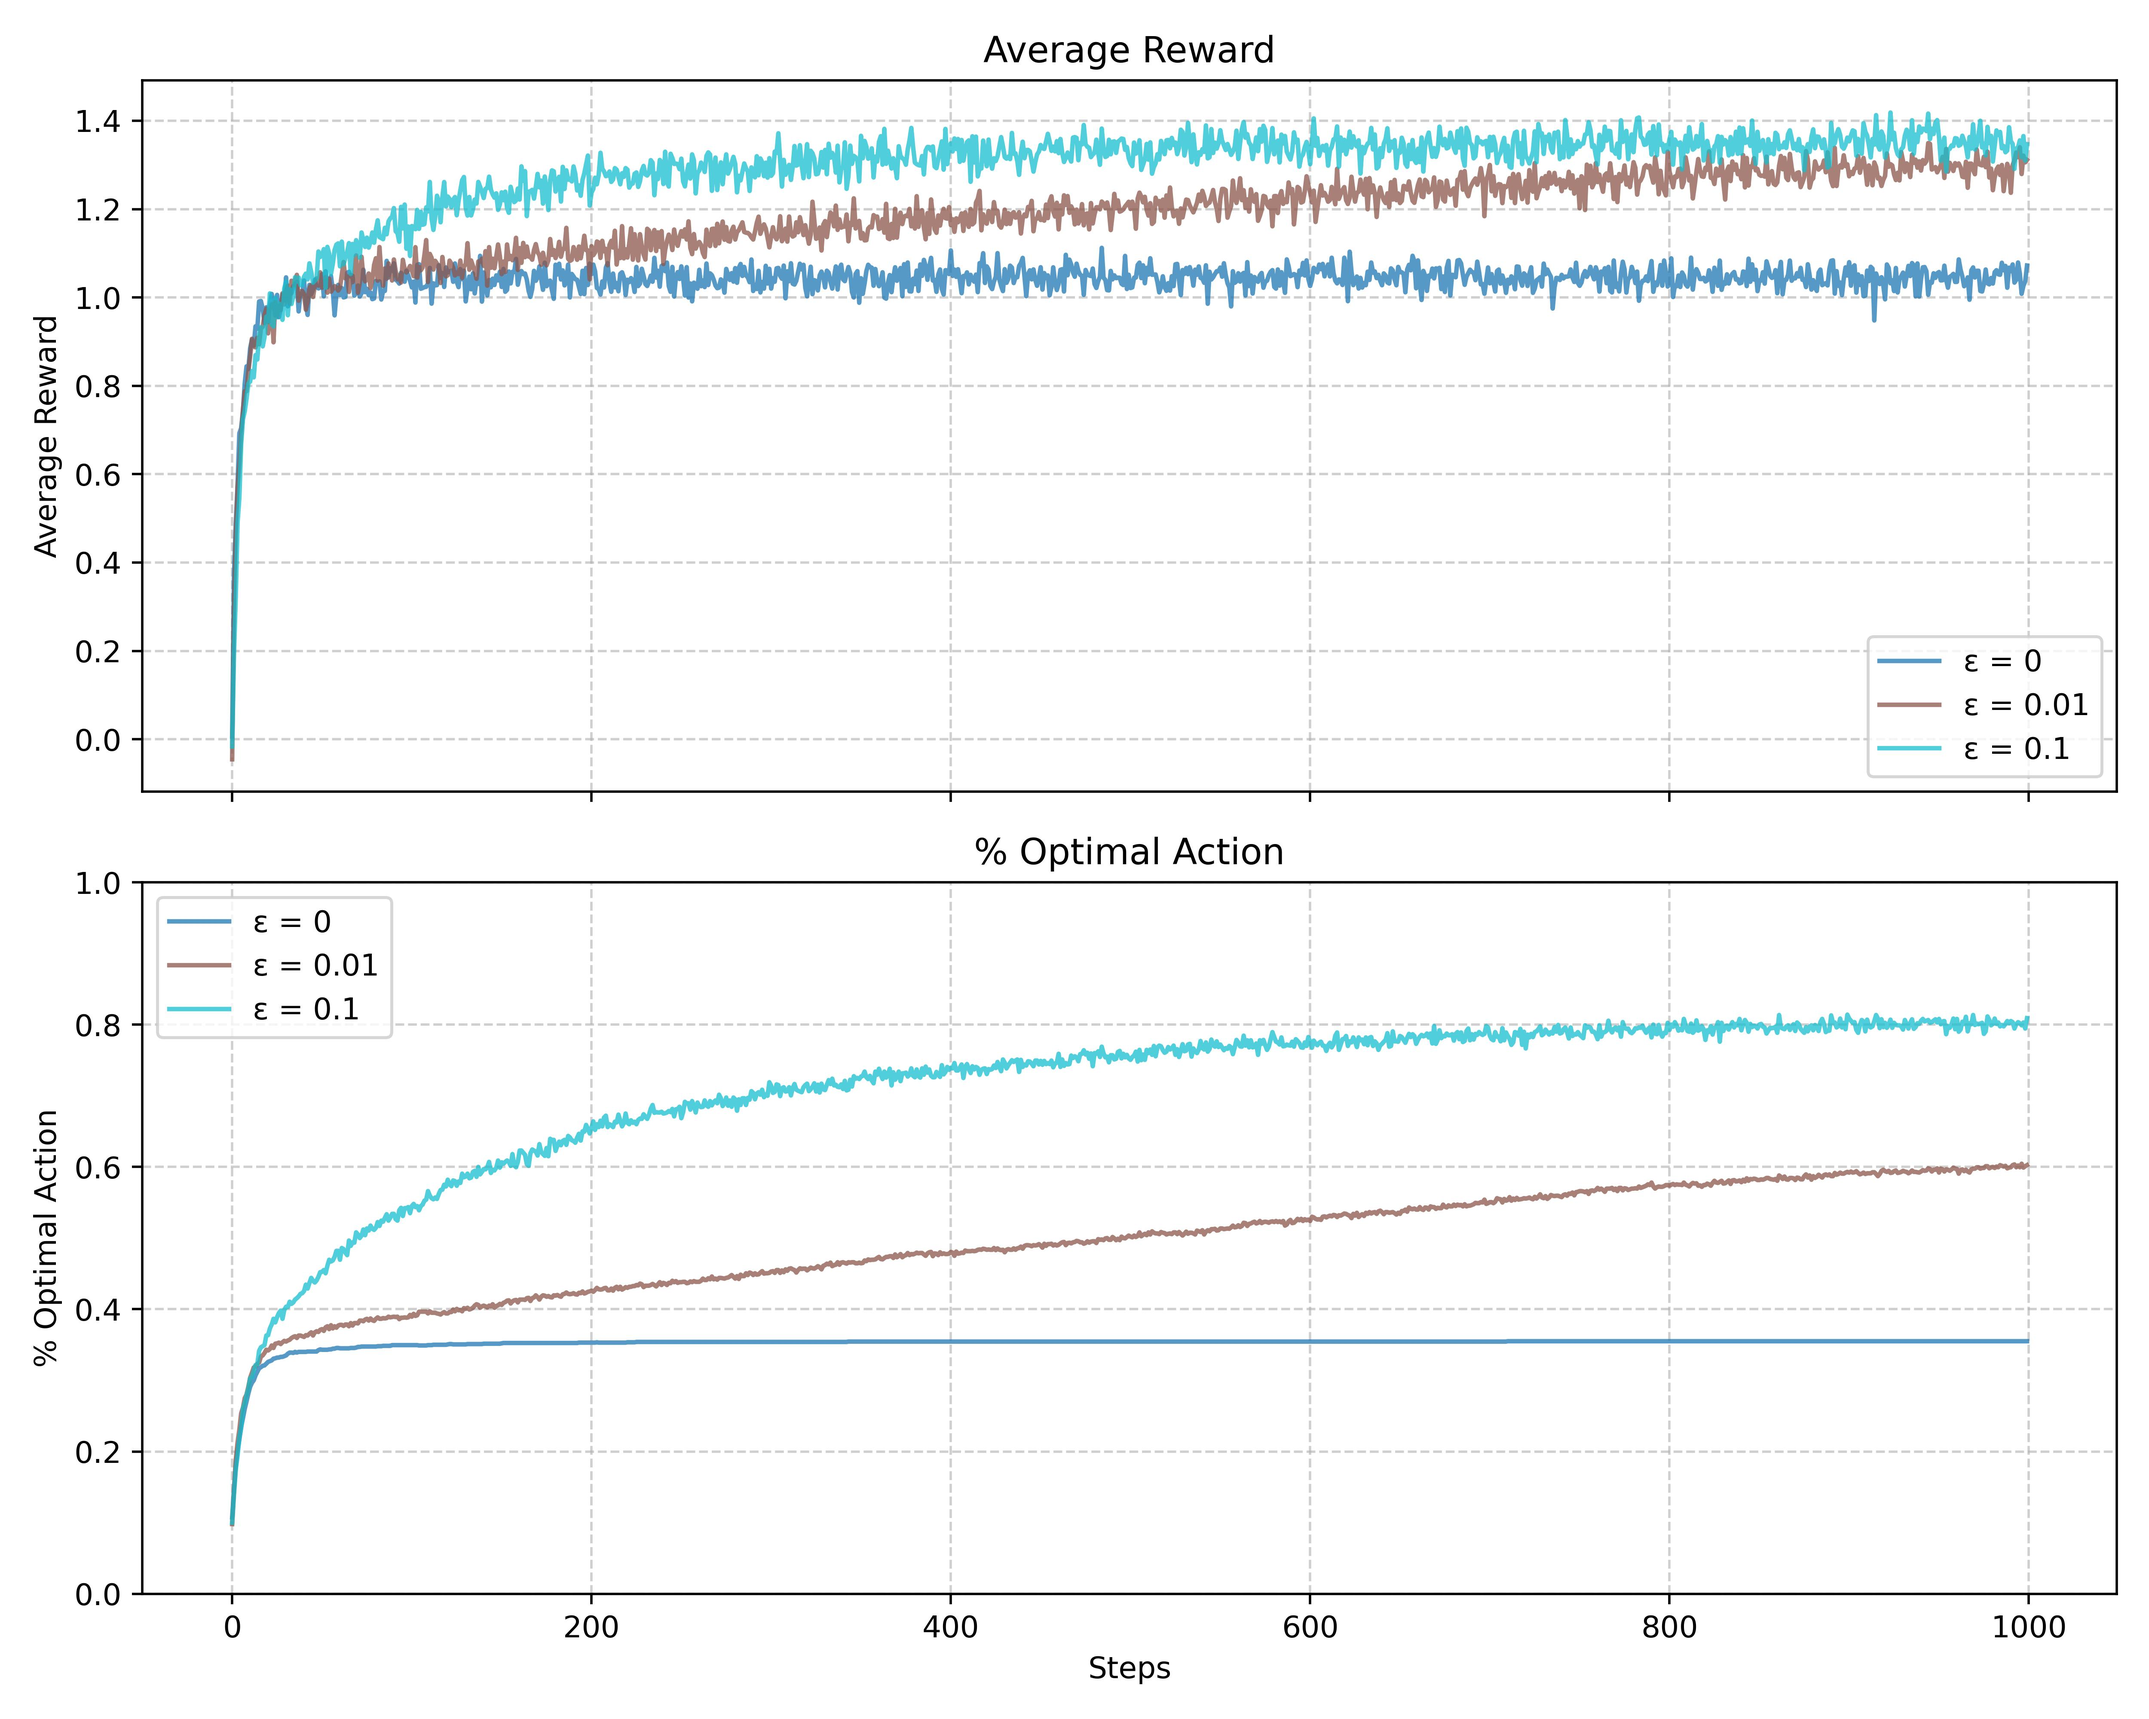
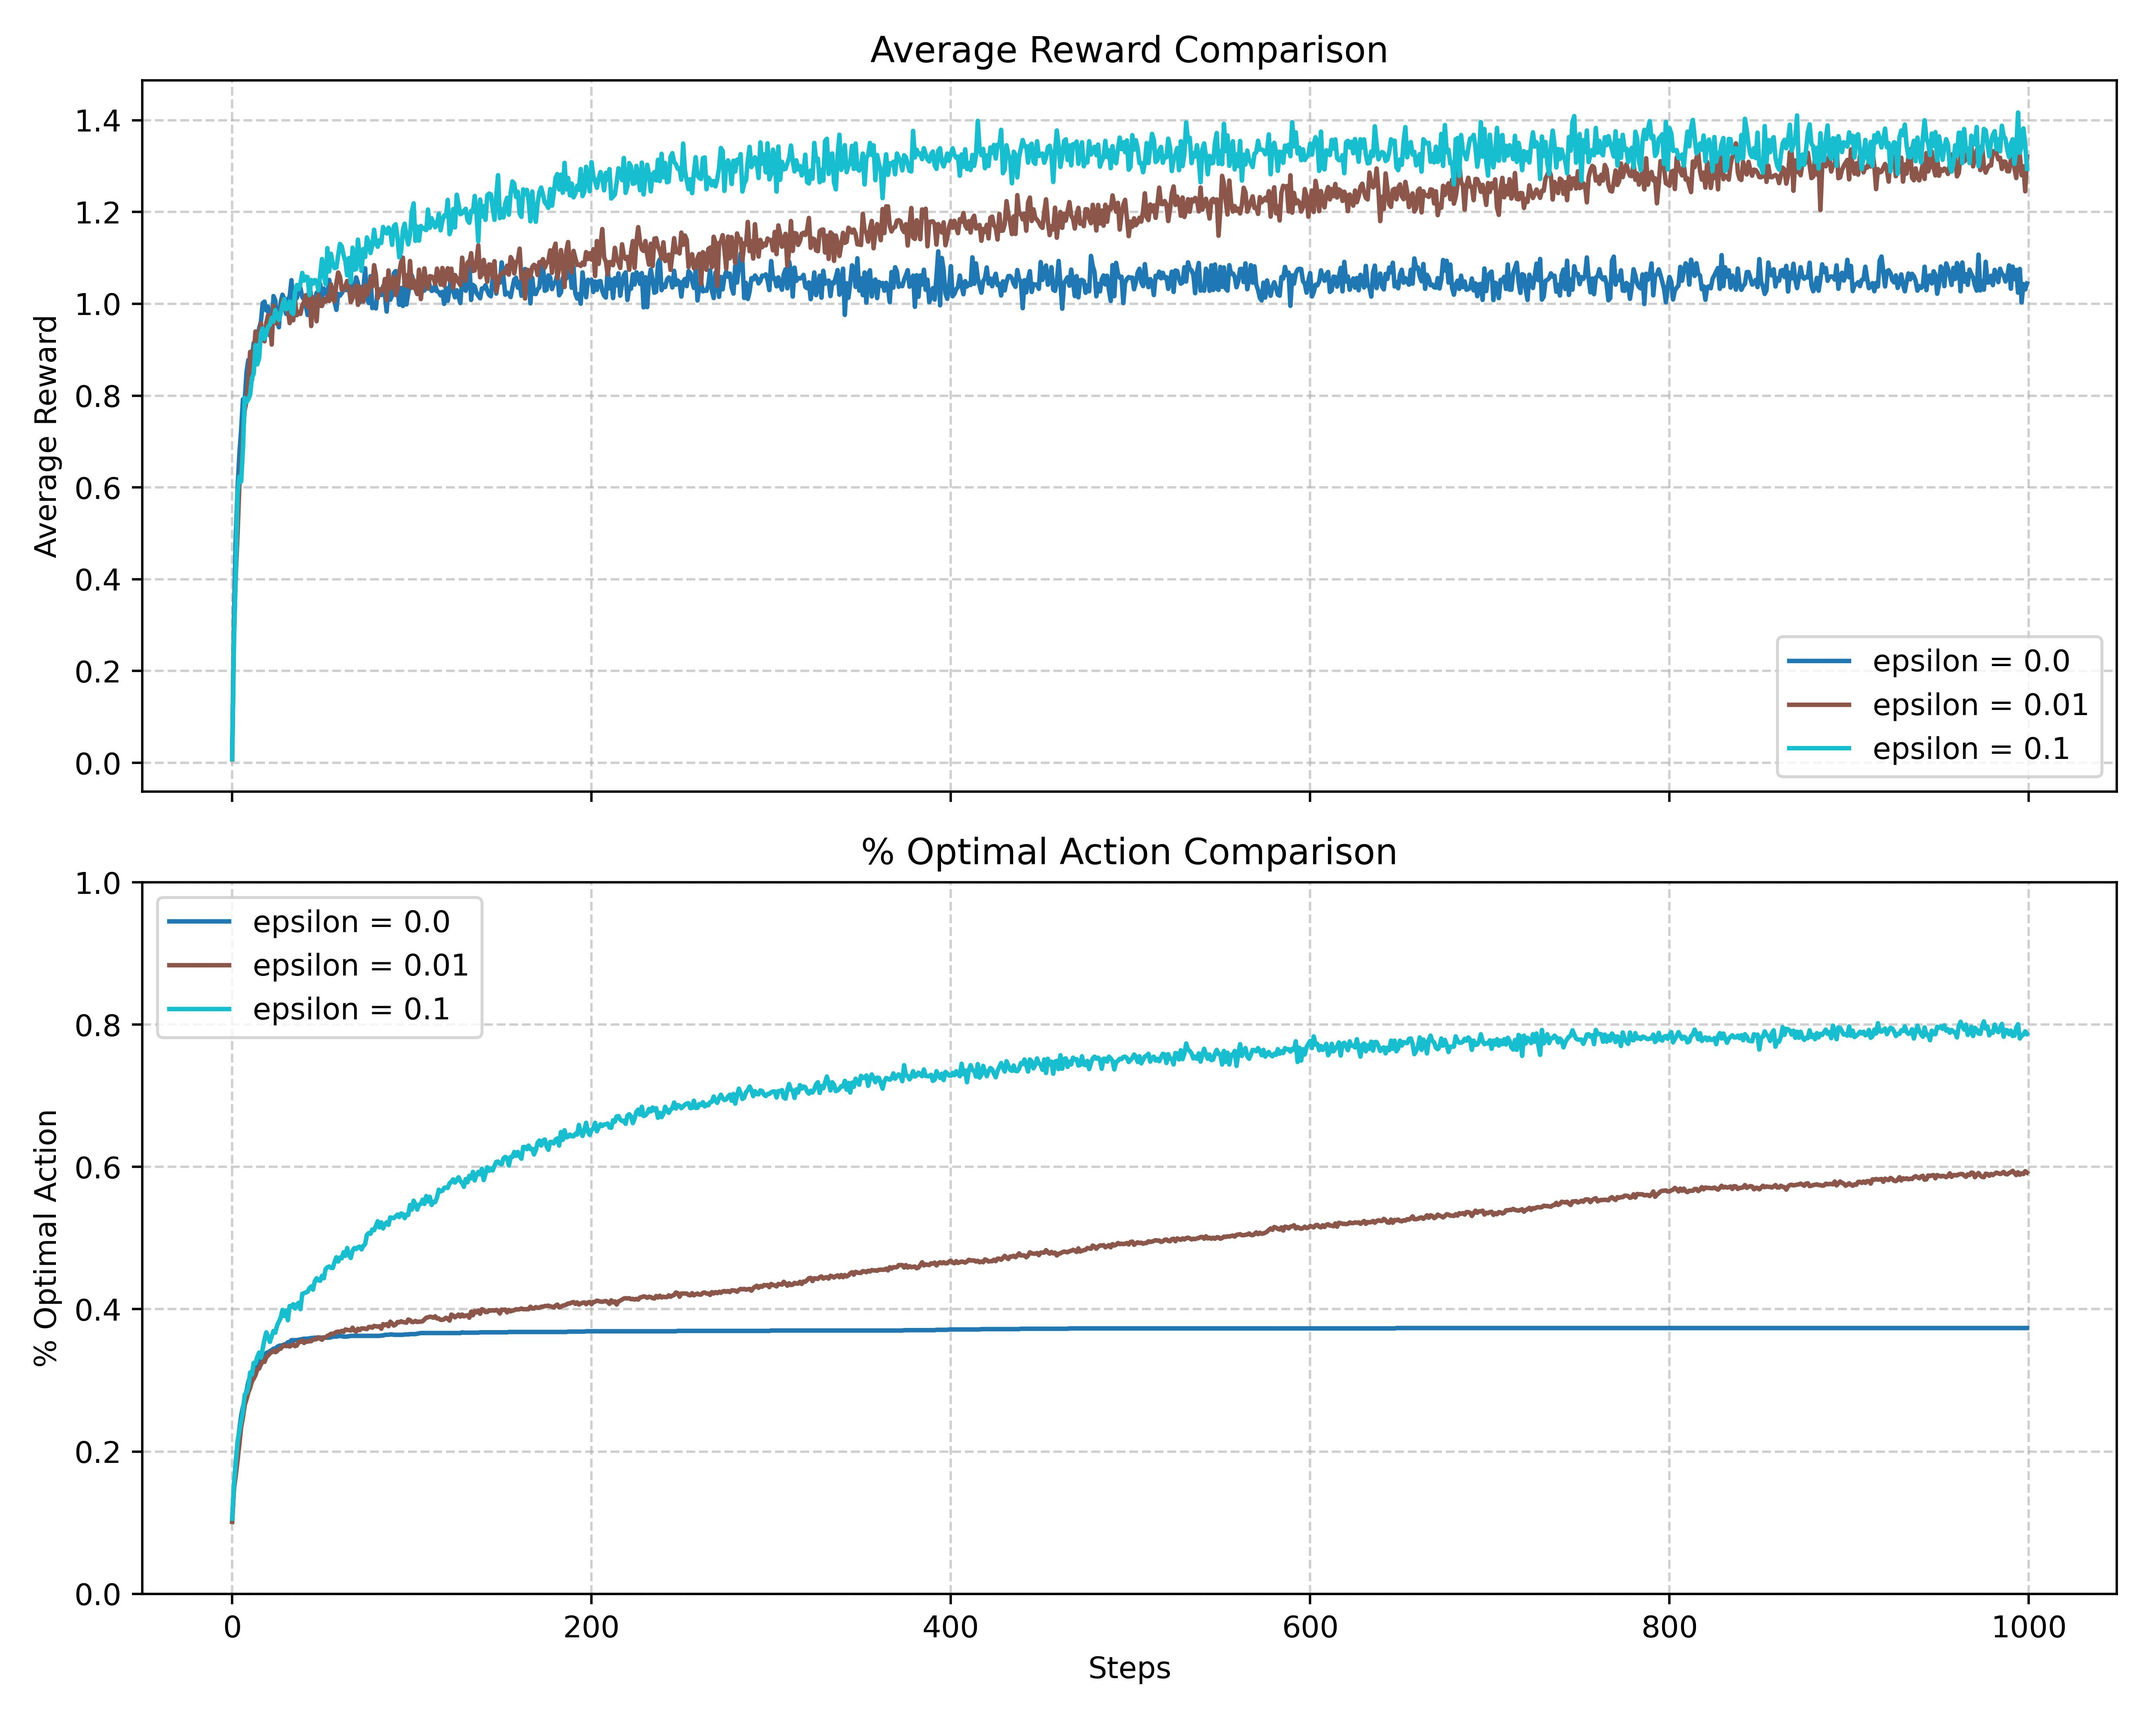
codigo pregunta c

diff --git a/Main.py b/Main.py
@@ -1,6 +1,5 @@
 import matplotlib.pyplot as plt
 import numpy as np
-
 from SimpleBanditEnv import SimpleBanditEnv
 from BanditResults import BanditResults
 from agents.SimpleBanditAgent import SimpleBanditAgent
@@ -15,63 +14,104 @@ def show_results(bandit_results: type(BanditResults)) -> tuple:
         print(f"{step+1}\t{average_rewards[step]:0.3f}\t{optimal_action_percentage[step]:0.3f}")
     return average_rewards, optimal_action_percentage
 
+'''
+alpha = -1.0 -> Step size no constante, osea = 1/N
+'''
+def bandit_simulation(epsilon: float, num_of_arms: int, num_of_steps: int, num_of_runs: int, alpha: float, initial_action_value_estimate: int) -> tuple:
+
+    results = BanditResults()
+    for run_id in range(num_of_runs):
+
+        bandit = SimpleBanditEnv(seed=run_id, num_of_arms=num_of_arms)
+        agent = SimpleBanditAgent(num_of_arms, initial_action_value_estimate)
+        best_action = bandit.best_action
+
+        for _ in range(num_of_steps):
+            action = agent.get_action(epsilon)
+            reward = bandit.step(action)
+            agent.learn(action, reward, alpha)
+
+            is_best_action = (action == best_action)
+            results.add_result(reward, is_best_action)
+        results.save_current_run()
+
+    average_rewards, optimal_action_percentage = show_results(results)
+    return average_rewards, optimal_action_percentage
+
+
+def plot_full_comparison(all_results, parameter_name='epsilon'):
+    fig, axs = plt.subplots(2, 1, figsize=(10, 8), sharex=True)
+    vivid_cmap = plt.get_cmap('tab10')
+    colors = vivid_cmap(np.linspace(0, 1, len(all_results)))
+
+    for i, result_data in enumerate(all_results):
+        label_text = f"{parameter_name} = {result_data['parameter']}"
+        axs[0].plot(result_data['rewards'], label=label_text, color=colors[i])
+        axs[1].plot(result_data['actions'], label=label_text, color=colors[i])
+
+    axs[0].set_title('Average Reward Comparison')
+    axs[0].set_ylabel('Average Reward')
+    axs[0].legend()
+    axs[0].grid(True, linestyle='--', alpha=0.6)
+    axs[1].set_title('% Optimal Action Comparison')
+    axs[1].set_ylabel('% Optimal Action')
+    axs[1].set_xlabel('Steps')
+    axs[1].set_ylim(0, 1)
+    axs[1].legend()
+    axs[1].grid(True, linestyle='--', alpha=0.6)
+    plt.tight_layout()
+    # plt.savefig('resultados/pregunta_a.jpeg', dpi=500)
+    plt.show()
+
+def plot_optimal_action_comparison(all_results, parameter_name='epsilon'):
+    fig, ax = plt.subplots(1, 1, figsize=(10, 6))
+    vivid_cmap = plt.get_cmap('tab10')
+    colors = vivid_cmap(np.linspace(0, 1, len(all_results)))
+
+    for i, result_data in enumerate(all_results):
+        label_text = f" {result_data['parameter']}"
+        ax.plot(result_data['actions'], label=label_text, color=colors[i])
+
+    ax.set_title('% Optimal Action Comparison')
+    ax.set_ylabel('% Optimal Action')
+    ax.set_xlabel('Steps')
+    ax.set_ylim(0, 1)
+    ax.legend()
+    ax.grid(True, linestyle='--', alpha=0.6)
+    plt.tight_layout()
+    # plt.savefig('resultados/pregunta_c.jpeg', dpi=500)
+    plt.show()
 
 if __name__ == "__main__":
 
     NUM_OF_RUNS = 2000
     NUM_OF_STEPS = 1000
-    EPSILON = [0, 0.01, 0.1]
     NUM_OF_ARMS = 10
 
-    resultados = []
-    for epsilon in EPSILON:
-        results = BanditResults()
-        for run_id in range(NUM_OF_RUNS):
+    ''' Pregunta a '''
 
-            bandit = SimpleBanditEnv(seed=run_id, num_of_arms=NUM_OF_ARMS)
-            agent = SimpleBanditAgent(NUM_OF_ARMS)
-            best_action = bandit.best_action
-
-            for _ in range(NUM_OF_STEPS):
-                action = agent.get_action(epsilon)
-                reward = bandit.step(action)
-                agent.learn(action, reward)
-
-                is_best_action = action == best_action
-                results.add_result(reward, is_best_action)
-            results.save_current_run()
-
-        avgr, oap = show_results(results)
-        resultados.append([avgr, oap])
-
-
-
-    ### CODIGO PLOTTEO PREGUNTA a) ###
-
-    # fig, axs = plt.subplots(2, 1, figsize=(10, 8), sharex=True)
-    # vivid_cmap = plt.get_cmap('tab10')
-    # colors = vivid_cmap(np.linspace(0, 1, len(EPSILON)))
+    # EPSILON_VALUES = [0.0, 0.01, 0.1]
     #
-    # for i, (epsilon_value, data) in enumerate(zip(EPSILON, resultados)):
-    #     average_rewards = data[0]
-    #     optimal_actions = data[1]
-    #     current_color = colors[i]
-    #     label_text = f'ε = {epsilon_value}'
-    #     axs[0].plot(average_rewards, label=label_text, color=current_color, alpha=0.75)
-    #     axs[1].plot(optimal_actions, label=label_text, color=current_color, alpha=0.75)
+    # results = []
+    # for epsilon in EPSILON_VALUES:
+    #     avg_rewards, optimal_actions = bandit_simulation(epsilon, NUM_OF_ARMS, NUM_OF_STEPS, NUM_OF_RUNS, alpha=-1.0, initial_action_value_estimate=0)
+    #     results.append({'parameter': epsilon, 'actions': optimal_actions, 'rewards': avg_rewards})
     #
-    # axs[0].set_title('Average Reward')
-    # axs[0].set_ylabel('Average Reward')
-    # axs[0].legend()
-    # axs[0].grid(True, linestyle='--', alpha=0.6)
-    # axs[1].set_title('% Optimal Action')
-    # axs[1].set_ylabel('% Optimal Action')
-    # axs[1].set_xlabel('Steps')
-    # axs[1].set_ylim(0, 1)
-    # axs[1].legend()
-    # axs[1].grid(True, linestyle='--', alpha=0.6)
-    # plt.tight_layout()
-    # # plt.savefig('resultados/pregunta_a.jpeg', dpi=500)
-    # plt.show()
+    # plot_full_comparison(results, parameter_name='epsilon')
+    
+    ''' Pregunta a '''
+    
+    
+    ''' Pregunta c '''
 
-    ### CODIGO PLOTTEO PREGUNTA a) ###
+    # ALPHA = 0.1
+    # params = [[0.0, 5], [0.1, 0]]
+    # results = []
+    #
+    # for param in params:
+    #     avg_rewards, optimal_actions = bandit_simulation(param[0], NUM_OF_ARMS, NUM_OF_STEPS, NUM_OF_RUNS, ALPHA, param[1])
+    #     results.append({'parameter': f'epsilon={param[0]}, Q_1={param[1]}', 'actions': optimal_actions})
+    #
+    # plot_optimal_action_comparison(results, parameter_name='')
+    
+    ''' Pregunta c '''

diff --git a/agents/SimpleBanditAgent.py b/agents/SimpleBanditAgent.py
@@ -4,9 +4,9 @@ from agents.BaseAgent import BaseAgent
 
 
 class SimpleBanditAgent(BaseAgent):
-    def __init__(self, num_of_actions: int):
+    def __init__(self, num_of_actions: int, initial_value: int):
         self.num_of_actions = num_of_actions
-        self.action_values = np.zeros(num_of_actions)
+        self.action_values = np.full(num_of_actions, initial_value, dtype=float)
         self.N = np.zeros(num_of_actions, dtype=int)
 
     def get_action(self, epsilon) -> int:
@@ -18,6 +18,10 @@ class SimpleBanditAgent(BaseAgent):
             random_action = int(random.uniform(0, self.num_of_actions))
             return random_action
 
-    def learn(self, action: int, reward: float):
+    def learn(self, action: int, reward: float, alpha: float) -> None:
         self.N[action] += 1
-        self.action_values[action] += (1 / self.N[action]) * (reward - self.action_values[action])
+
+        if alpha == -1.0:
+            self.action_values[action] += (1 / self.N[action]) * (reward - self.action_values[action])
+        else:
+            self.action_values[action] += (alpha) * (reward - self.action_values[action])

diff --git a/agents/BaseAgent.py b/agents/BaseAgent.py
@@ -8,5 +8,5 @@ class BaseAgent(ABC):
         pass
 
     @abstractmethod
-    def learn(self, action: int, reward: float):
+    def learn(self, action: int, reward: float, alpha: float) -> None:
         pass
